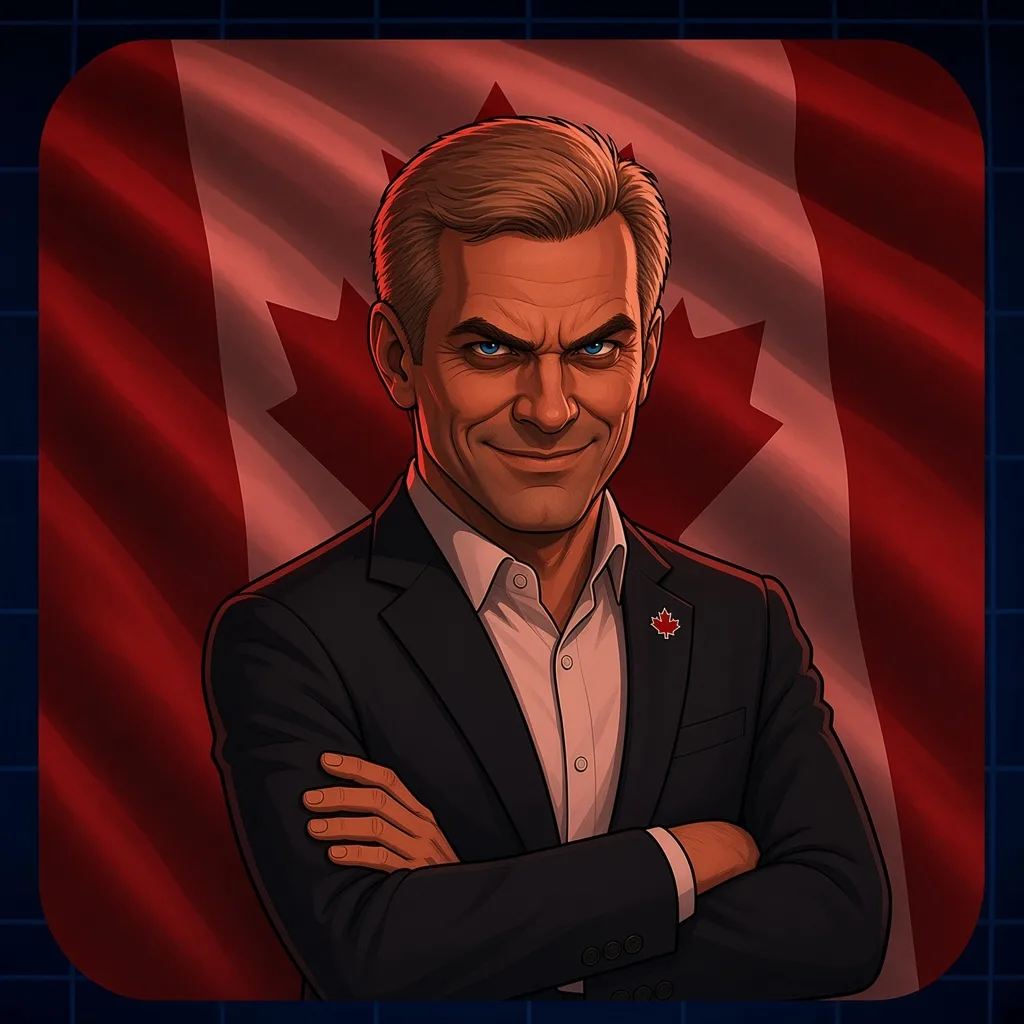
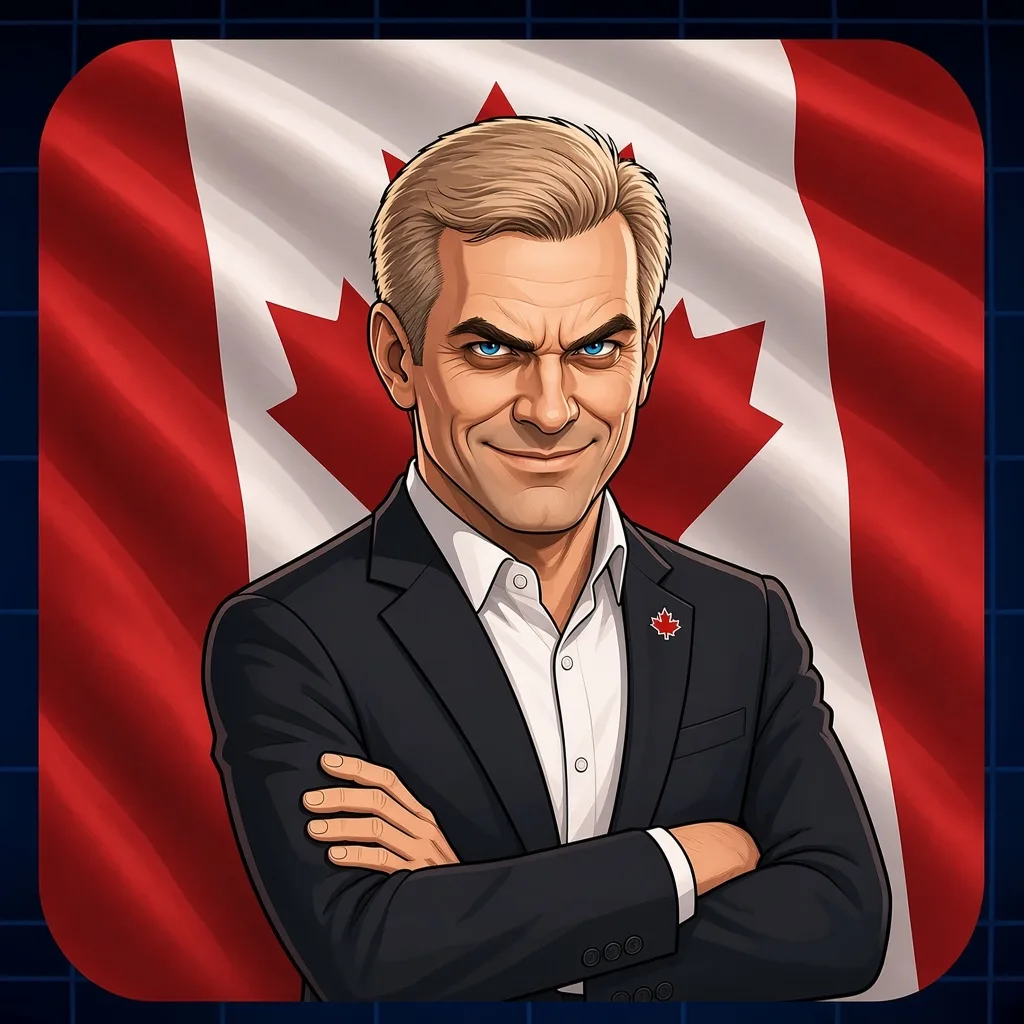
Update art assets and enhance CSS styles for nation cards and score cards
- Replaced multiple binary art files with updated WEBP formats for improved visual quality, including flags and leader images for various nations.
- Introduced new CSS styles for nation cards and score cards, enhancing layout and visual clarity, including the addition of stance badges for peaceful and aggressive nations.
- Improved responsiveness and organization of score card elements, ensuring a better user experience during gameplay.

diff --git a/src/App.tsx b/src/App.tsx
@@ -1624,17 +1624,35 @@ function NationPod({
   const swarmed = new Set(pendingDroneCityIds ?? []);
   const pulsed = new Set(highlightCityIds ?? []);
   const interactive = Boolean(onSelectCity);
+  const isAngel = state.angelNationId === id;
+  const isEvil = state.evilNationId === id;
   return (
     <div
       className={`nation-card nation-card--${variant} ${n.eliminated ? 'is-out' : ''} ${highlight ? 'is-turn' : ''}`}
       data-nation-id={id}
     >
       <div className="nation-card__portrait" data-nation-portrait={id}>
-        <img
-          src={leaderArt(state, id)}
-          alt={def.leader}
-          title={n.hasSpyNetwork ? "Spy service — reads every nation's city defences" : undefined}
-        />
+        <span className="nation-card__shot">
+          <img
+            src={leaderArt(state, id)}
+            alt={def.leader}
+            title={n.hasSpyNetwork ? "Spy service — reads every nation's city defences" : undefined}
+          />
+          {(isAngel || isEvil) && (
+            <span className="stance-badges">
+              {isAngel && (
+                <span className="stance-mark stance-mark--peace" title="Most peaceful this round">
+                  ☮
+                </span>
+              )}
+              {isEvil && (
+                <span className="stance-mark stance-mark--evil" title="Aggressor this round">
+                  ☠
+                </span>
+              )}
+            </span>
+          )}
+        </span>
         <div className="nation-card__meta">
           <strong>
             {rank != null ? `#${rank} ` : ''}
@@ -3843,7 +3861,19 @@ function RoundSummary({
                       key={row.nationId}
                       className={`score-card ${row.eliminated ? 'is-out' : ''} ${isLead ? 'is-lead' : ''} ${isYou ? 'is-you' : ''}`}
                     >
-                      <img src={leaderArt(state, row.nationId)} alt="" />
+                      <span className="score-card__shot">
+                        <img src={leaderArt(state, row.nationId)} alt="" />
+                        {state.angelNationId === row.nationId && (
+                          <span className="stance-mark stance-mark--peace" title="Most peaceful this round">
+                            ☮
+                          </span>
+                        )}
+                        {state.evilNationId === row.nationId && (
+                          <span className="stance-mark stance-mark--evil" title="Aggressor this round">
+                            ☠
+                          </span>
+                        )}
+                      </span>
                       <div>
                         <strong>
                           {row.eliminated ? 'OUT' : `#${i + 1}`} {nationDef(row.nationId).name}

diff --git a/src/App.css b/src/App.css
@@ -579,6 +579,44 @@ img { max-width: 100%; display: block; }
   width: min(96px, 30cqi, 24vh);
 }
 
+.nation-card__shot {
+  position: relative;
+  display: block;
+  width: 100%;
+}
+
+.stance-badges,
+.score-card__shot .stance-mark {
+  position: absolute;
+  top: -0.2rem;
+  right: -0.28rem;
+  z-index: 4;
+  display: flex;
+  pointer-events: none;
+}
+
+.stance-mark {
+  display: grid;
+  place-items: center;
+  width: 1.15rem;
+  height: 1.15rem;
+  border-radius: 50%;
+  font-size: 0.72rem;
+  line-height: 1;
+  border: 1.5px solid rgba(255, 255, 255, 0.75);
+  box-shadow: 0 2px 6px rgba(0, 0, 0, 0.5);
+}
+
+.stance-mark--peace {
+  background: #f4fff8;
+  color: #147a45;
+}
+
+.stance-mark--evil {
+  background: #2a0c0c;
+  color: #ff5c4a;
+}
+
 /* Keep a true square — cover + a shorter max-height was cropping crowns/hoods */
 .nation-card__portrait img {
   width: min(100%, 14vh);
@@ -3434,7 +3472,23 @@ img { max-width: 100%; display: block; }
   gap: 0.45rem;
 }
 
+.score-card__shot {
+  position: relative;
+  display: block;
+  width: 40px;
+  height: 40px;
+}
+
+.score-card__shot > img {
+  width: 100%;
+  height: 100%;
+  border-radius: 10px;
+  object-fit: contain;
+}
+
 .score-cards--compact .score-card > img,
+.score-cards--compact .score-card__shot,
+.score-cards--compact .score-card__shot > img,
 .score-cards--compact .score-card__head > img {
   width: 40px;
   height: 40px;
@@ -4613,6 +4667,8 @@ img { max-width: 100%; display: block; }
   }
 
   .screen--round-report .score-cards--compact .score-card > img,
+  .screen--round-report .score-cards--compact .score-card__shot,
+  .screen--round-report .score-cards--compact .score-card__shot > img,
   .screen--round-report .score-cards--compact .score-card__head > img {
     width: 32px;
     height: 32px;
